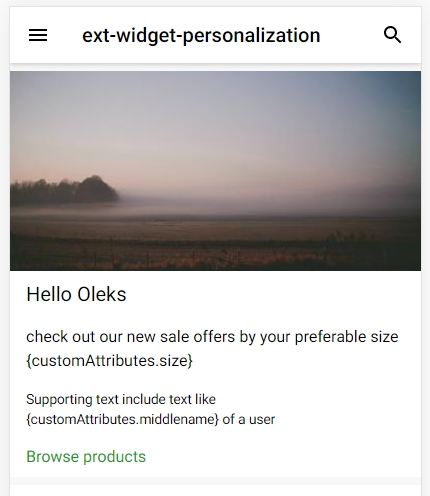
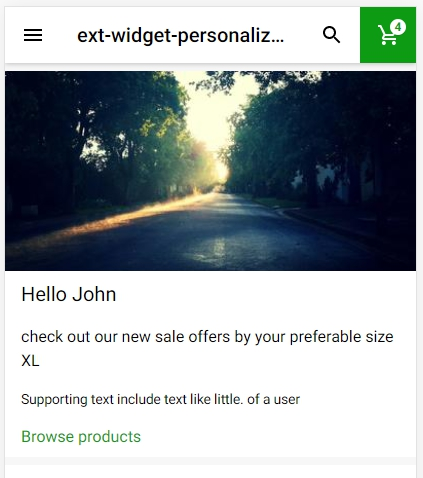
CCP-2353 Access to nested properties

diff --git a/frontend/helpers/index.js b/frontend/helpers/index.js
@@ -4,6 +4,29 @@ import { appConfig } from '@shopgate/engage';
 const messageCache = {};
 
 /**
+ * @param {Object} obj .
+ * @param {string} prefix .
+ * @return {Object}
+ */
+function flattenObj(obj, prefix = '') {
+  return Object.keys(obj).reduce((acc, key) => {
+    const kkey = `${prefix}${key}`;
+
+    if (!obj[key]) {
+      acc[kkey] = obj[key];
+    } else if (typeof obj[key] === 'object') {
+      return {
+        ...acc,
+        ...flattenObj(obj[key], `${kkey}-`),
+      };
+    } else {
+      acc[kkey] = obj[key];
+    }
+    return acc;
+  }, {});
+}
+
+/**
  * @param {string} format .
  * @param {Object} formats .
  * @returns {IntlMessageFormat}
@@ -15,6 +38,11 @@ export const getIntlMessage = (format, formats) => {
         format,
         appConfig.language,
         formats
+      );
+
+      messageCache[format].origFormat = messageCache[format].format;
+      messageCache[format].format = data => (
+        messageCache[format].origFormat(flattenObj(data))
       );
     } catch (err) {
       messageCache[format] = {

diff --git a/README.md b/README.md
@@ -34,9 +34,9 @@ You can configure widget settings in [Shopgate Merchant admin](https://developer
     },
     "primary": {
       "title": "Hello {firstName}",
-      "text": "check out our new sale offers by your preferable size {customAttributes.size}"
+      "text": "check out our new sale offers by your preferable size {customAttributes-size}"
     },
-    "supportingText": "Supporting text include text like {customAttributes.middlename} of a user",
+    "supportingText": "Supporting text include text like {customAttributes-middlename} of a user",
     "actions": [
       {
         "title": "Browse products",
@@ -53,6 +53,8 @@ You can configure widget settings in [Shopgate Merchant admin](https://developer
 
 You can refer user data which are available for Engage.  
 See [get User pipeline response](https://developer.shopgate.com/references/connect/shopgate-pipelines/user/shopgate.user.getuser.v1)
+
+⚠ When using user `customAttributes`, you need to hyphenate a path to property, eg `customAttributes-size`
 
 ## Extension Configuration
 
